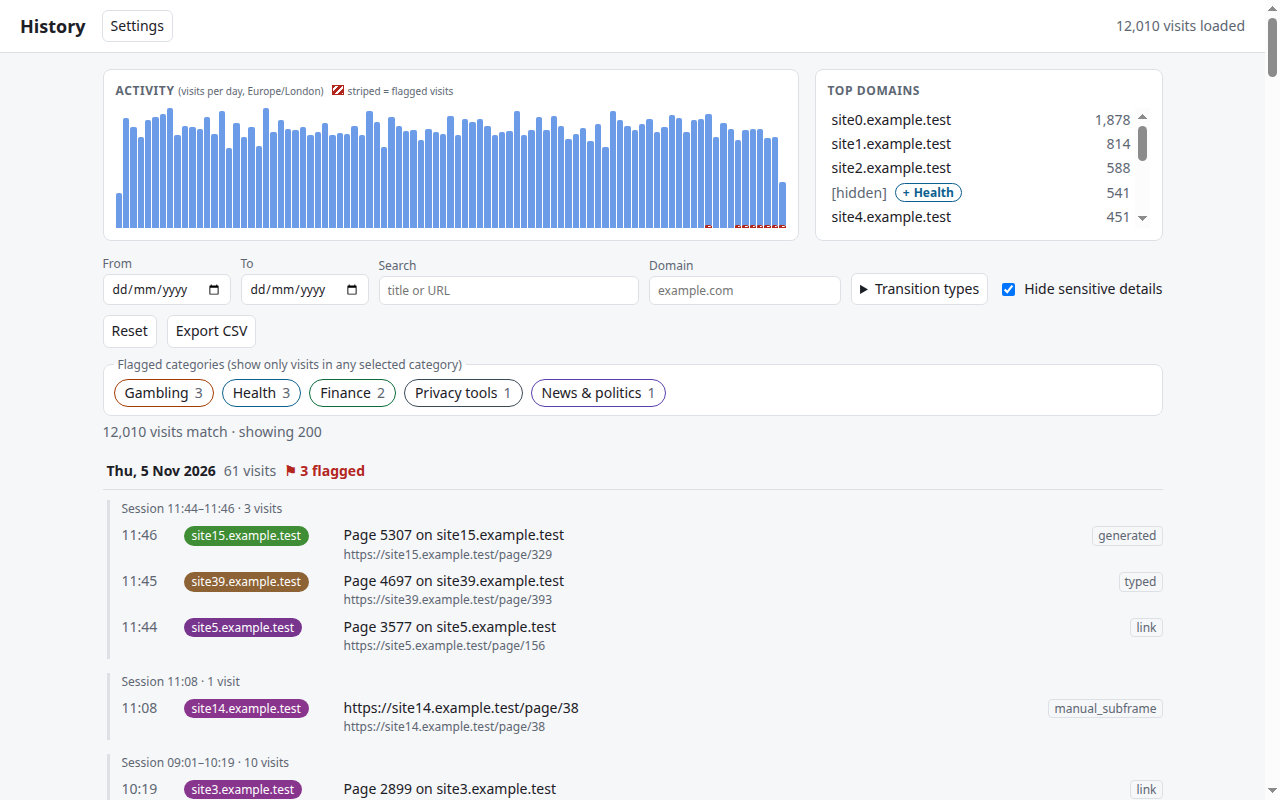
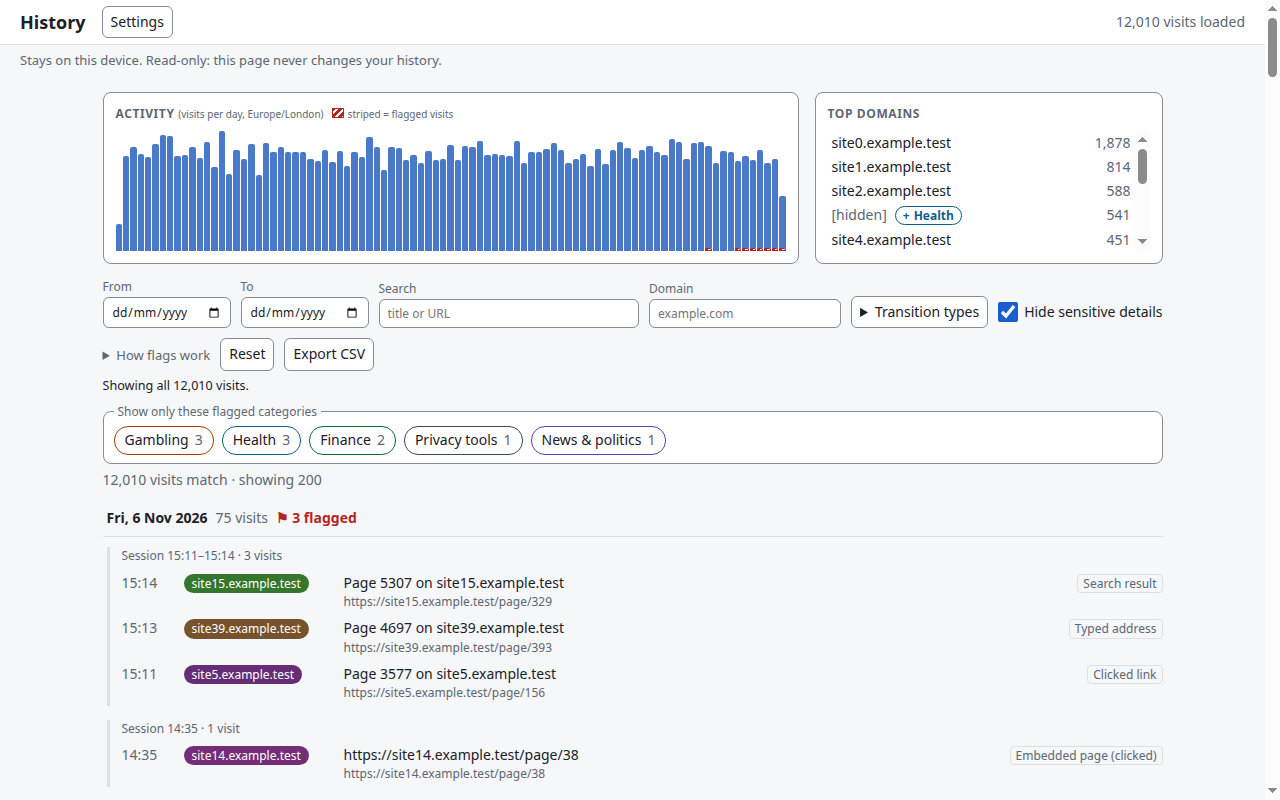
release: 0.6.0, retake Store screenshots, add hide-sensitive before/after

diff --git a/docs/INSTALL-EXTENSION.md b/docs/INSTALL-EXTENSION.md
@@ -20,7 +20,7 @@ See [`extension/store/PRIVACY.md`](../extension/store/PRIVACY.md) for the full p
 ## 3. Download and verify
 
 1. Open the [release page for the version you are installing](https://github.com/Jubblin/history-timeline/releases/tag/vX.Y.Z). Under **Assets**, download:
-   - `history-timeline-extension_<version>.zip` (for example, for v0.5.0: `history-timeline-extension_v0.5.0.zip`)
+   - `history-timeline-extension_<version>.zip` (for example, for v0.6.0: `history-timeline-extension_v0.6.0.zip`)
    - `SHA256SUMS`
 2. Put both files in the same folder (for example Downloads) and check the zip was not damaged or altered. `SHA256SUMS` lists every release file, so only the extension line is checked.
 
@@ -61,7 +61,7 @@ The folder should now contain `manifest.json`, `timeline.html`, and the `icons`,
 1. Go to `chrome://extensions` (type it in the address bar).
 2. Turn on **Developer mode** (toggle at the top right). This is a browser setting on that page that lets you load extensions from a folder. It is unrelated to ChromeOS's own "Developer mode" device setting, which is not needed here and which you should not turn on for this.
 3. Click **Load unpacked** and select the folder that **directly contains `manifest.json`** (not its parent folder).
-4. Success looks like a new card named **Browsing History Timeline**, the version you downloaded (for example **0.5.0**), switched on. The extension asks for access to your browsing history; the exact wording depends on your Chrome version.
+4. Success looks like a new card named **Browsing History Timeline**, the version you downloaded (for example **0.6.0**), switched on. The extension asks for access to your browsing history; the exact wording depends on your Chrome version.
 5. To keep the button handy, click the puzzle-piece (Extensions) icon in the toolbar and use the pin option next to the extension.
 
 ## 6. First use

diff --git a/extension/store/CHECKLIST.md b/extension/store/CHECKLIST.md
@@ -1,13 +1,15 @@
 # Web Store submission checklist for Browsing History Timeline
 
-Status as of v0.5.0: the package, assets and text are ready; **nothing has been submitted** and nothing below under "You must do" has been done.
+Status as of v0.6.0: the package, assets and text are ready; **nothing has been submitted** and nothing below under "You must do" has been done.
+
+Release note for 0.6.0: the CSV export's first column header is now `time_utc` (was `time`) and the file starts with a UTF-8 BOM; scripts reading the old `time` column must be updated.
 
 ## Done in this repository
 - [x] Manifest V3, minimal permissions (`history`, `storage`), no host permissions, no remote code, strict CSP.
 - [x] Reproducible zip: `make extension-zip` (allowlist; excludes tests, scripts, store assets, fixtures; fixture mode is not in the zip).
 - [x] Manifest lint (`make extension-lint`), also run by the zip build.
 - [x] Icons 16/32/48/128 (original artwork, `icon.svg`).
-- [x] 4 screenshots at 1280x800 from synthetic fixture data (`screenshots/`).
+- [x] 5 screenshots at 1280x800 from synthetic fixture data (`screenshots/`).
 - [x] Privacy policy text (`PRIVACY.md`) consistent with the CSP and permissions.
 - [x] Listing text, single-purpose statement and permission justifications (`LISTING.md`).
 - [x] Shared UI helper sync check (`make ui-check`) and an advisory `extension-browser` CI job for the Playwright checks.

diff --git a/extension/store/LISTING.md b/extension/store/LISTING.md
@@ -45,5 +45,10 @@ No host permissions are requested. No remote code is used.
 
 ## Assets
 - Icons: `../icons/icon-{16,32,48,128}.png` (generated from `icon.svg`, original artwork).
-- Screenshots (1280x800, synthetic fixture data): `screenshots/`.
+- Screenshots (1280x800, synthetic fixture data, UK dates): `screenshots/`. Captions:
+  1. `1-timeline-light.png`: Your browsing history as a day-by-day timeline, with activity chart and top domains.
+  2. `2-category-filter-light.png`: Filter to flagged categories; sensitive details stay hidden by default.
+  3. `3-rules-settings-light.png`: Add or allow your own classification rules, stored only in your browser profile.
+  4. `4-timeline-dark.png`: The same timeline in dark mode.
+  5. `5-hide-sensitive-before-after.png`: Hide sensitive details on (default) versus off.
 - Privacy policy: `PRIVACY.md` (needs a public URL, see the checklist).
